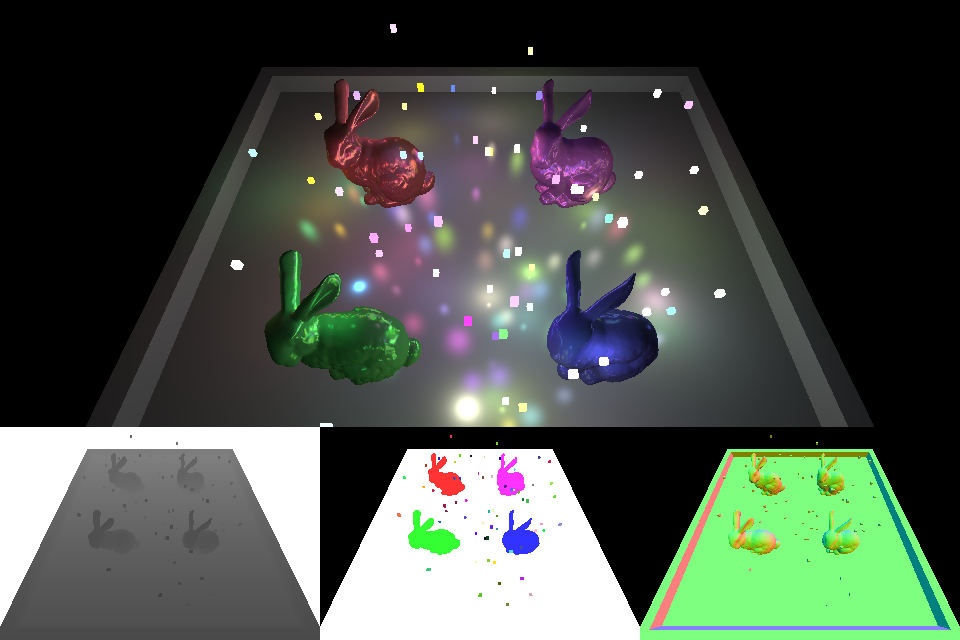
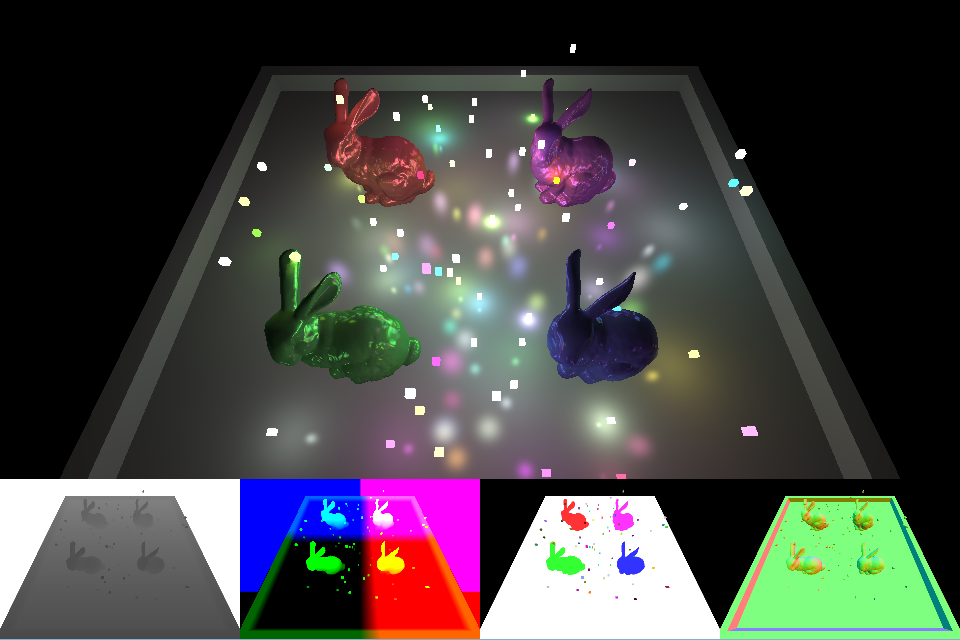
Reconstructing position from depth. Removed position render target.

diff --git a/samples/DeferredSample/src/DeferredSample.cpp b/samples/DeferredSample/src/DeferredSample.cpp
@@ -6,7 +6,6 @@
 #include "SampleFramework/Loader.h"
 #include "SampleFramework/Logger.h"
 #include "SampleFramework/Random.h"
-#include "SampleFramework/Input.h"
 #include "ImGui/imgui.h"
 #include "Clair/Material.h"
 #include "../../data/materials/deferredGeometry.h"
@@ -37,14 +36,10 @@ bool DeferredSample::initialize(const HWND hwnd) {
 	RT2 = createGBufferTarget(
 		Clair::Texture::Format::R8G8B8A8_UNORM,
 		Clair::Texture::Type::RENDER_TARGET);
-	mGBufPosition = createGBufferTarget(
-		Clair::Texture::Format::R32G32B32A32_FLOAT,
-		Clair::Texture::Type::RENDER_TARGET);
-	mGBuffer = new Clair::RenderTargetGroup{3};
+	mGBuffer = new Clair::RenderTargetGroup{2};
 	mGBuffer->setDepthStencilTarget(RT0);
 	mGBuffer->setRenderTarget(0, RT1->getRenderTarget());
 	mGBuffer->setRenderTarget(1, RT2->getRenderTarget());
-	mGBuffer->setRenderTarget(2, mGBufPosition->getRenderTarget());
 
 	// Deferred composite material
 	auto compTexData = Loader::loadBinaryData("materials/deferredComposite.cmat");
@@ -58,8 +53,6 @@ bool DeferredSample::initialize(const HWND hwnd) {
 		1, RT1->getShaderResource());
 	mDeferredCompositeMat->setShaderResource(
 		2, RT2->getShaderResource());
-	mDeferredCompositeMat->setShaderResource(
-		3, mGBufPosition->getShaderResource());
 	mCompositeCBuffer = mDeferredCompositeMat->
 		getConstantBufferPs<Cb_materials_deferredComposite_Ps>();
 
@@ -161,7 +154,6 @@ void DeferredSample::onResize() {
 	RT0->resize(getWidth(), getHeight());
 	RT1->resize(getWidth(), getHeight());
 	RT2->resize(getWidth(), getHeight());
-	mGBufPosition->resize(getWidth(), getHeight());
 }
 
 void DeferredSample::update() {
@@ -205,7 +197,6 @@ void DeferredSample::render() {
 	RT0->clear({1.0f});
 	RT1->getRenderTarget()->clear({0.0f, 0.0f, 0.0f, 1.0f});
 	RT2->getRenderTarget()->clear({atan2f(0.0f, 0.0f), 0.0f, 0.0f, 1.0f});
-	mGBufPosition->getRenderTarget()->clear({0.0f, 0.0f, 0.0f, 1.0f});
 	glm::mat4 viewMat = Camera::getViewMatrix();
 	Clair::Renderer::setViewMatrix(value_ptr(viewMat));
 	Clair::Renderer::setCameraPosition(value_ptr(Camera::getPosition()));

diff --git a/samples/DeferredSample/include/DeferredSample.h b/samples/DeferredSample/include/DeferredSample.h
@@ -37,7 +37,6 @@ private:
 
 	Clair::Texture* RT0 {nullptr};
 	Clair::Texture* RT1 {nullptr};
-	Clair::Texture* mGBufPosition {nullptr};
 	Clair::Texture* RT2 {nullptr};
 	Clair::RenderTargetGroup* mGBuffer {nullptr};
 
